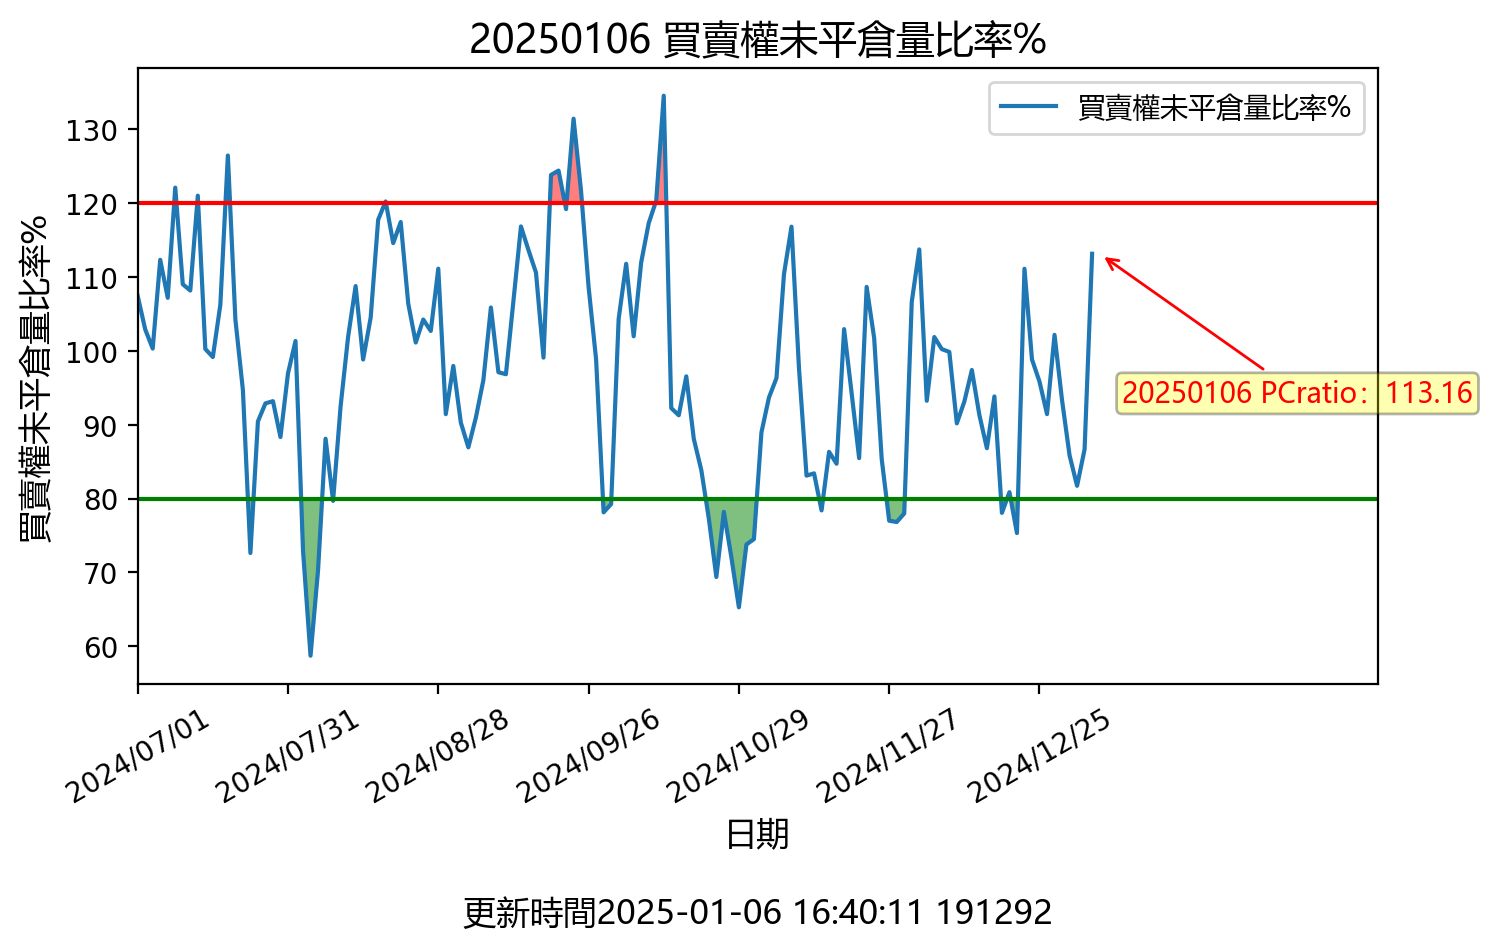
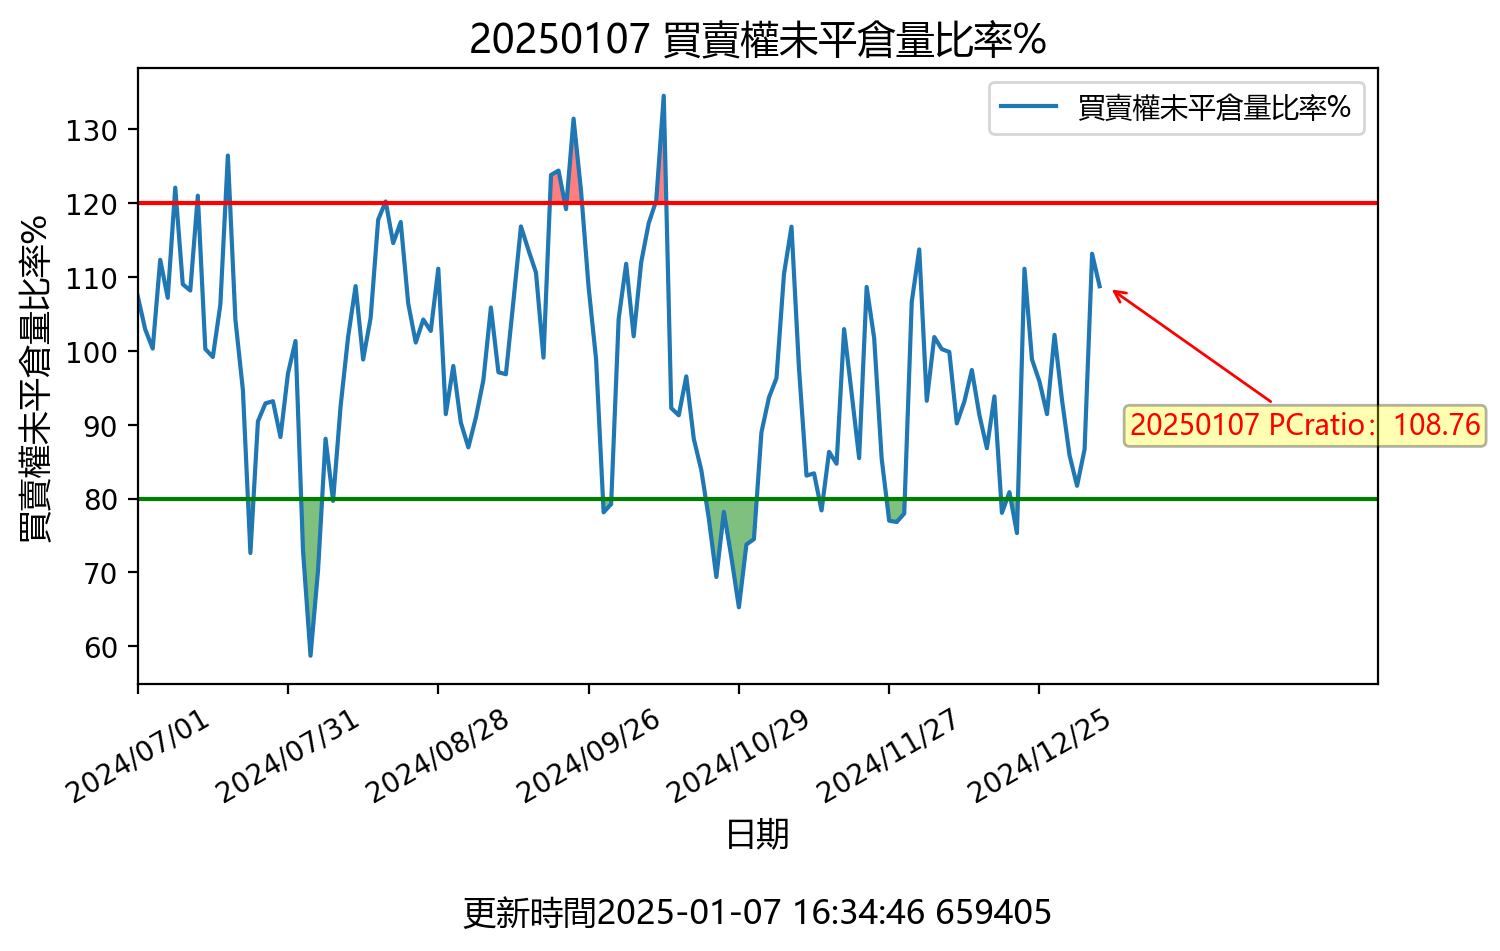
更新時間: Tue Jan  7 16:35:07 CST 2025

diff --git a/README.md b/README.md
@@ -1,12 +1,12 @@
-## 20250106 台指期「預估換倉成本」
+## 20250107 台指期「預估換倉成本」
 ![](images/txfcost.png)
 
-## 20250106 台指期「散戶小台多空比」
+## 20250107 台指期「散戶小台多空比」
 ![](images/bbiri.png)
 
-## 20250106 台指選擇權「Put/Call Ratios」
+## 20250107 台指選擇權「Put/Call Ratios」
 ![](images/pcratio.png)
 
-## 20250106 台指期「大額交易人」
+## 20250107 台指期「大額交易人」
 ![](images/blocktrade.png)
 
